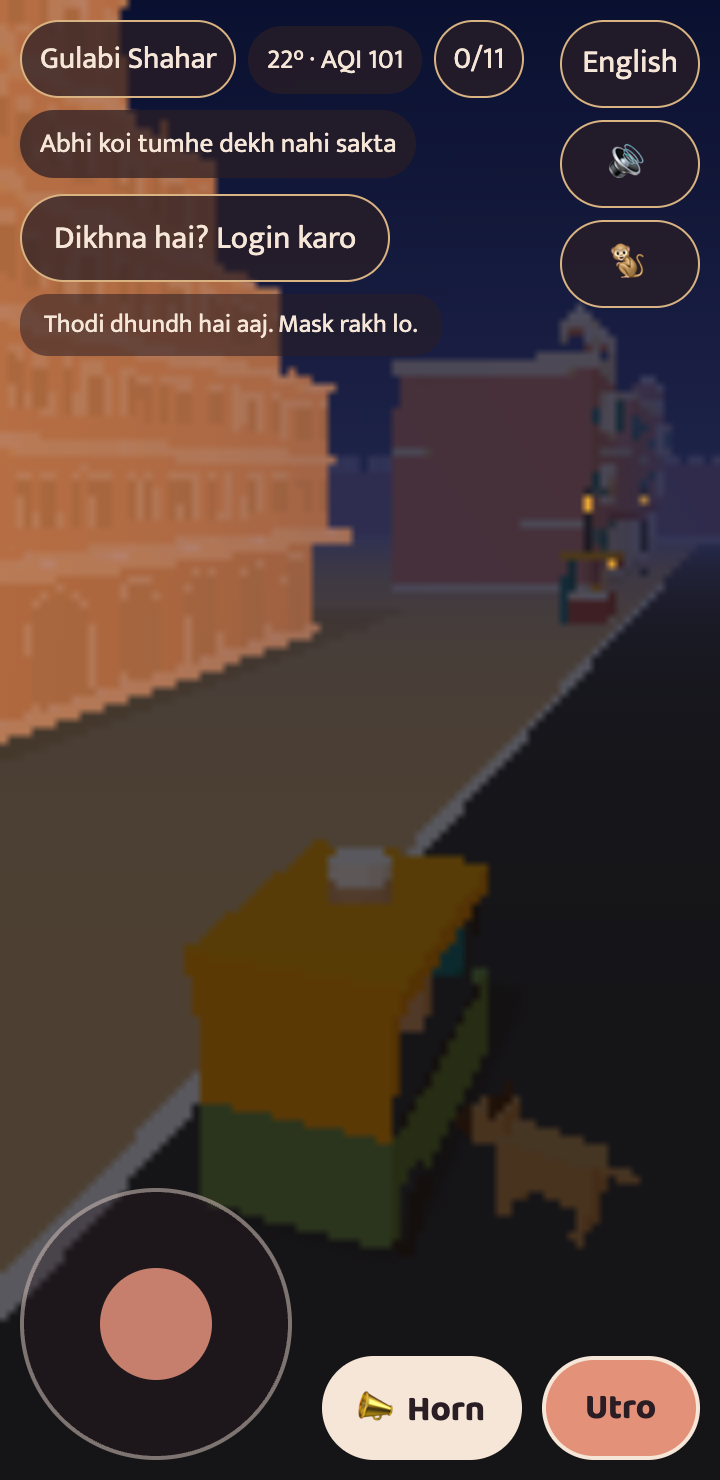
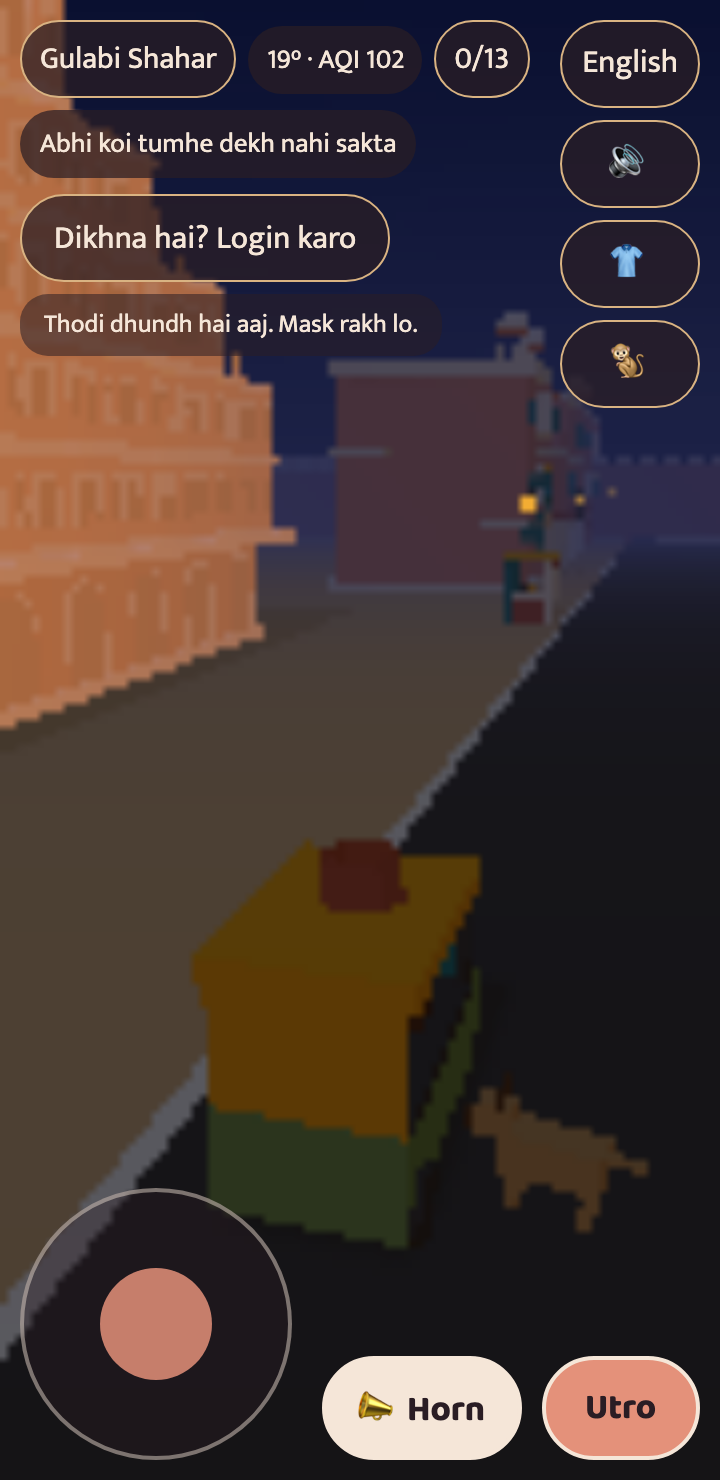
docs: the migration list for this release (0010, 0011; no 0009) and when the friends list is read

diff --git a/docs/deployment.md b/docs/deployment.md
@@ -17,7 +17,7 @@ database and two Durable Objects; the Durable Object classes are created by the 
 ## Owner checklist, in order
 
 1. Cloudflare account, token and KV namespace (section 1, steps 1 and 2).
-2. **D1** (section 1a): create the database, paste its id, apply the migrations (`0001` to `0008`).
+2. **D1** (section 1a): create the database, paste its id, apply the migrations (`0001` to `0008`, then `0010` and `0011`; there is no `0009`).
 3. **Clerk** (section 1b): create the app, then set the Worker secrets.
 4. GitHub `backend` environment and the API domain (section 1, steps 3 to 5); a run of the workflow on `main`
    deploys (dispatch it by hand: pushes do not start it at the moment, see **CI caveats** in section 3).
@@ -447,7 +447,7 @@ harmless to run before or after the Worker; apply it the same way (`npx wrangler
 
 **Migration `0010_friends.sql` (friends and "Chai pe bulao").** It adds `friends`, `friend_requests`,
 `friend_settings` and `chai_invites`, and the triggers that end a friendship with its match, a block, a hide or a
-ban. It does not depend on `0009`. Apply it before the Worker that needs it ships (the friends routes and an
+ban. There is no `0009` migration (the number went unused). Apply it before the Worker that needs it ships (the friends routes and an
 account deletion read these tables): from `backend/`, `npx wrangler d1 migrations apply gulabi-gali --remote`,
 then `npx wrangler deploy`, then dispatch the `pages` workflow. The invite push rides on the push setup above
 (no new secret), and the 15-minute cron sweeps old asks and invites in one more D1 call.

diff --git a/docs/architecture.md b/docs/architecture.md
@@ -797,8 +797,10 @@ and holds a resident slot in a district right now, `here: <district>`. The Worke
 (`GateDO.where`, one read, nothing scheduled) about those friends alone; nobody else's id reaches it. It asks on
 every read, with an empty list too, so the time an answer takes never tells whether a friend turned sharing off. Off, away,
 waiting in line, or the gate out of reach all read the same: just the name. No position is ever sent. Nothing is
-pushed to anyone's socket: the page reads the list when the profile sheet, a chat or the chai picker opens, and
-every 30 s while the friends list is open, so it adds no Durable Object time but that one gate read.
+pushed to anyone's socket: the page reads the list when the profile sheet, a chat or the chai picker opens, on
+each inbox (re)connect and each `friend` notice (for the Profile button's count of waiting asks), and every 30 s
+while the friends list is open (not while the tab is hidden), so it adds no Durable Object time but that one gate
+read (capped at 20 a minute per account).
 
 Chai pe bulao: seated at a bench as a resident (the bench's district confirms it, `DistrictDO.seatedAt`), a
 person picks a friend (`POST /api/chai {to, bench, kind}`). Their own checks answer as usual (`ghost`, `muted`,
